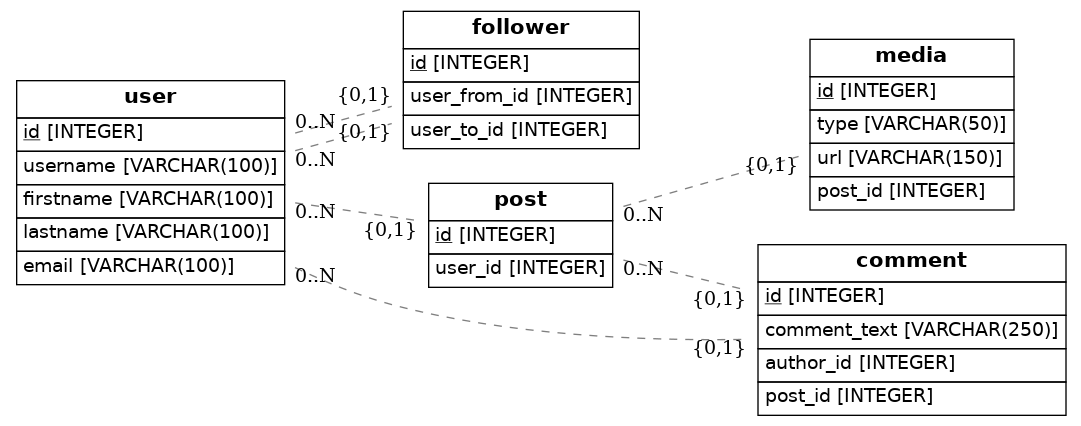
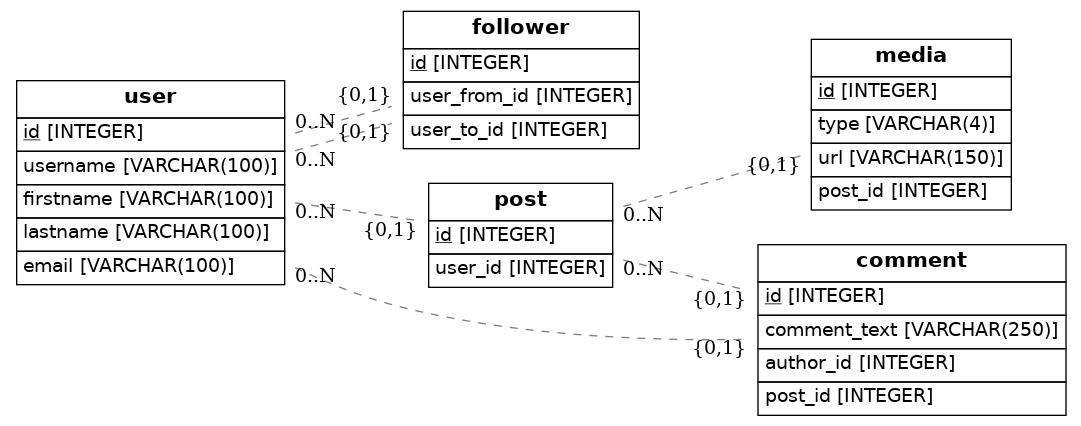
ya agregue el enum

Changed region(s): [[0.6716, 0.0915, 0.9463, 0.4883], [0.7327, 0.1831, 0.8853, 0.2441]]

diff --git a/src/models.py b/src/models.py
@@ -1,10 +1,12 @@
 import os
 import sys
-from sqlalchemy import Column, ForeignKey, Integer, String
+import enum
+from sqlalchemy import Column, ForeignKey, Integer, String, Enum
 from sqlalchemy.ext.declarative import declarative_base
 from sqlalchemy.orm import relationship
 from sqlalchemy import create_engine
 from eralchemy import render_er
+
 
 Base = declarative_base()
 
@@ -36,13 +38,18 @@ class Post(Base):
     # Notice that each column is also a normal Python instance attribute.
     id = Column(Integer, primary_key=True)
     user_id = Column(Integer, ForeignKey('user.id'))
+
+class MiEnumerado(enum.Enum):
+    uno=1
+    dos=2
+    tres=3  
     
 class Media(Base):
     __tablename__ = 'media'
     # Here we define columns for the table person
     # Notice that each column is also a normal Python instance attribute.
     id = Column(Integer, primary_key=True)
-    type = Column(String(50), nullable=False)
+    type = Column(Enum(MiEnumerado), nullable=False)
     url = Column(String(150), nullable=False)
     post_id = Column(Integer, ForeignKey('post.id'))
 
